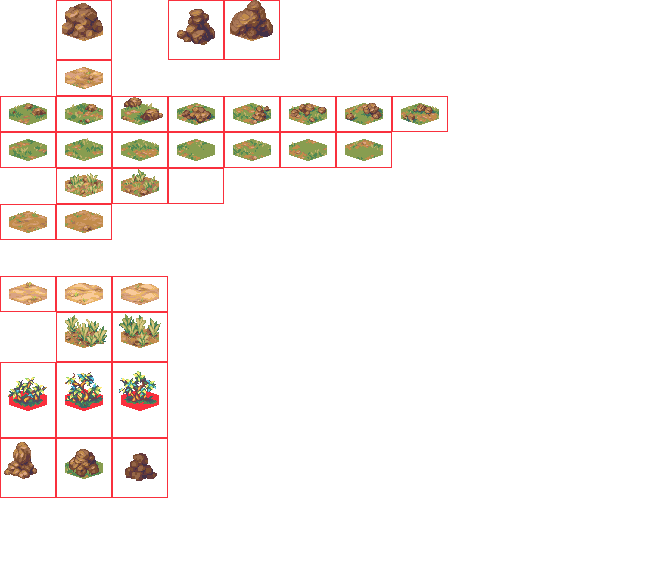
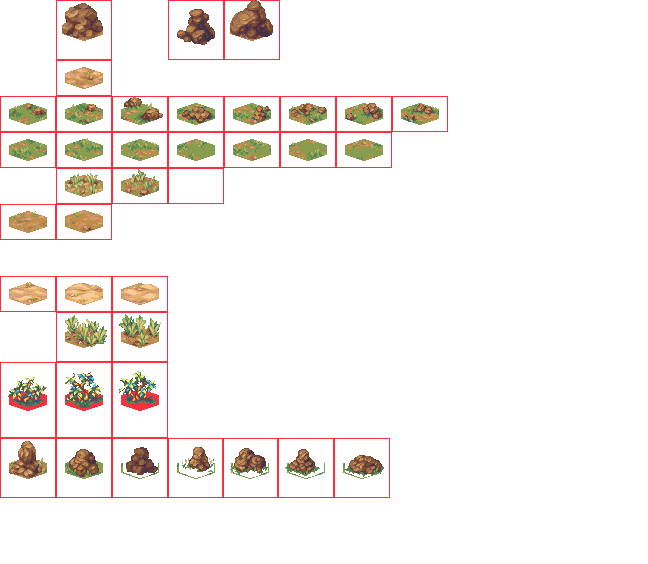
Kludged in some more menhir graphics from the old rpg project.

Changed region(s): [[0.1852, 0.7837, 0.6173, 0.8741], [0.0, 0.7837, 0.0926, 0.844]]

diff --git a/src/game/core/data/Image_Data.ts b/src/game/core/data/Image_Data.ts
@@ -285,6 +285,15 @@ export const image_data_list: Array<ImageData> = [{
 	},
 },{
 	url: "hex-tile-experiment-tiles.png",
+	name: "menhir-small2",
+	bounds: {
+		x: 57,
+		y: 439,
+		w: 54,
+		h: 58,
+	},
+},{
+	url: "hex-tile-experiment-tiles.png",
 	name: "menhir-small3",
 	bounds: {
 		x: 113,
@@ -294,9 +303,36 @@ export const image_data_list: Array<ImageData> = [{
 	},
 },{
 	url: "hex-tile-experiment-tiles.png",
-	name: "menhir-small2",
+	name: "menhir-small4",
 	bounds: {
-		x: 57,
+		x: 169,
+		y: 439,
+		w: 54,
+		h: 58,
+	},
+},{
+	url: "hex-tile-experiment-tiles.png",
+	name: "menhir-small5",
+	bounds: {
+		x: 224,
+		y: 439,
+		w: 54,
+		h: 58,
+	},
+},{
+	url: "hex-tile-experiment-tiles.png",
+	name: "menhir-small6",
+	bounds: {
+		x: 279,
+		y: 439,
+		w: 54,
+		h: 58,
+	},
+},{
+	url: "hex-tile-experiment-tiles.png",
+	name: "menhir-small7",
+	bounds: {
+		x: 335,
 		y: 439,
 		w: 54,
 		h: 58,

diff --git a/src/game/core/data/Tile_Types.ts b/src/game/core/data/Tile_Types.ts
@@ -373,6 +373,38 @@ export const tile_types: Array<TileItem> = [
 				id: 'menhir-small3',
 				zorder: zorder.rocks,
 			}],
+		},{
+			graphics: [{
+				id: 'dirt1',
+				zorder: zorder.grass,
+			},{
+				id: 'menhir-small4',
+				zorder: zorder.rocks,
+			}],
+		},{
+			graphics: [{
+				id: 'dirt1',
+				zorder: zorder.grass,
+			},{
+				id: 'menhir-small5',
+				zorder: zorder.rocks,
+			}],
+		},{
+			graphics: [{
+				id: 'dirt1',
+				zorder: zorder.grass,
+			},{
+				id: 'menhir-small6',
+				zorder: zorder.rocks,
+			}],
+		},{
+			graphics: [{
+				id: 'dirt1',
+				zorder: zorder.grass,
+			},{
+				id: 'menhir-small7',
+				zorder: zorder.rocks,
+			}],
 		}],
 	},{
 		name: "red-path-unreachable-dot",
